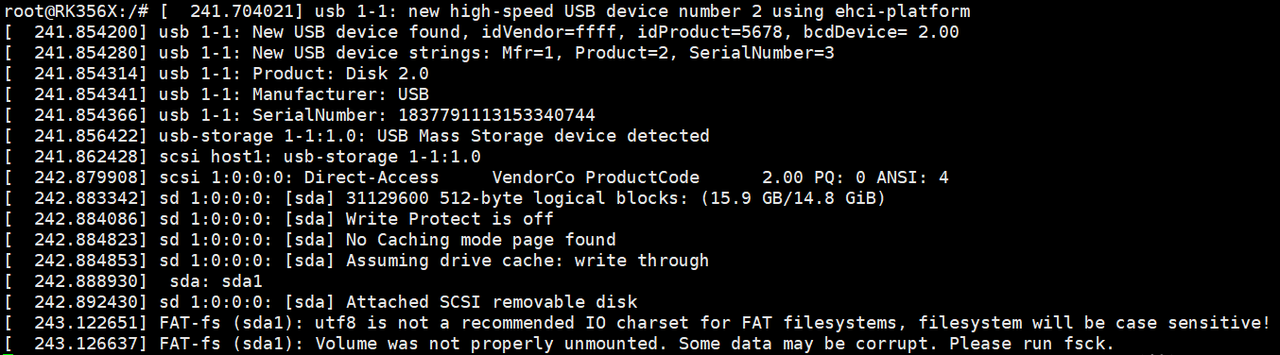
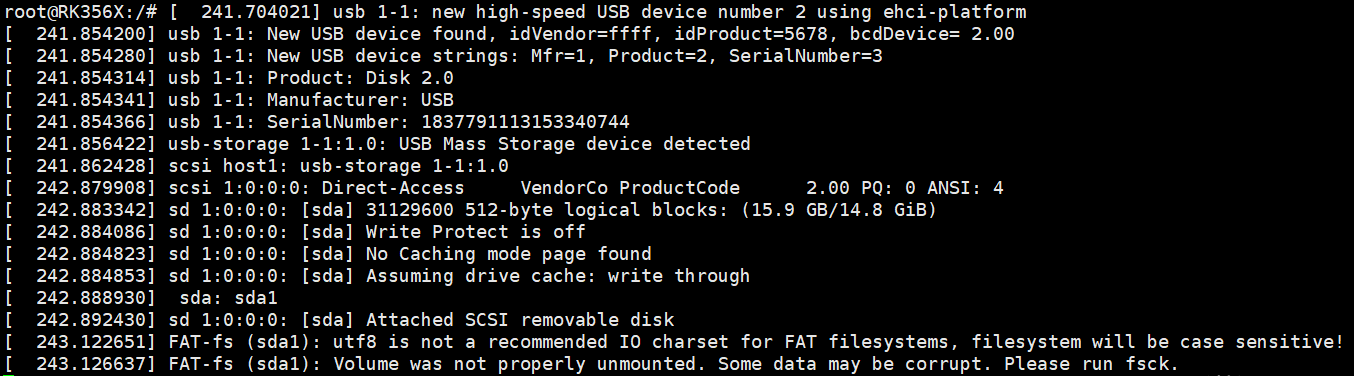
update for 3568

diff --git a/docs/MYZR-瑞星微系列/MYZR-RK3568-EK320/测试指导.rst b/docs/MYZR-瑞星微系列/MYZR-RK3568-EK320/测试指导.rst
@@ -109,8 +109,8 @@ SD接口测试
 
 1. 将TF卡安装到SD接口，开发板会输出如下信息：
 
-.. figure:: /image/MYZR-瑞星微系列/MYZR-RK3588-EK360/测试3.png
-   :alt: 测试3.png
+.. figure:: /image/MYZR-瑞星微系列/MYZR-RK3588-EK360/测试3.jpg
+   :alt: 测试3.jpg
 
 2. 将TF拔出，输出信息如下：
 
